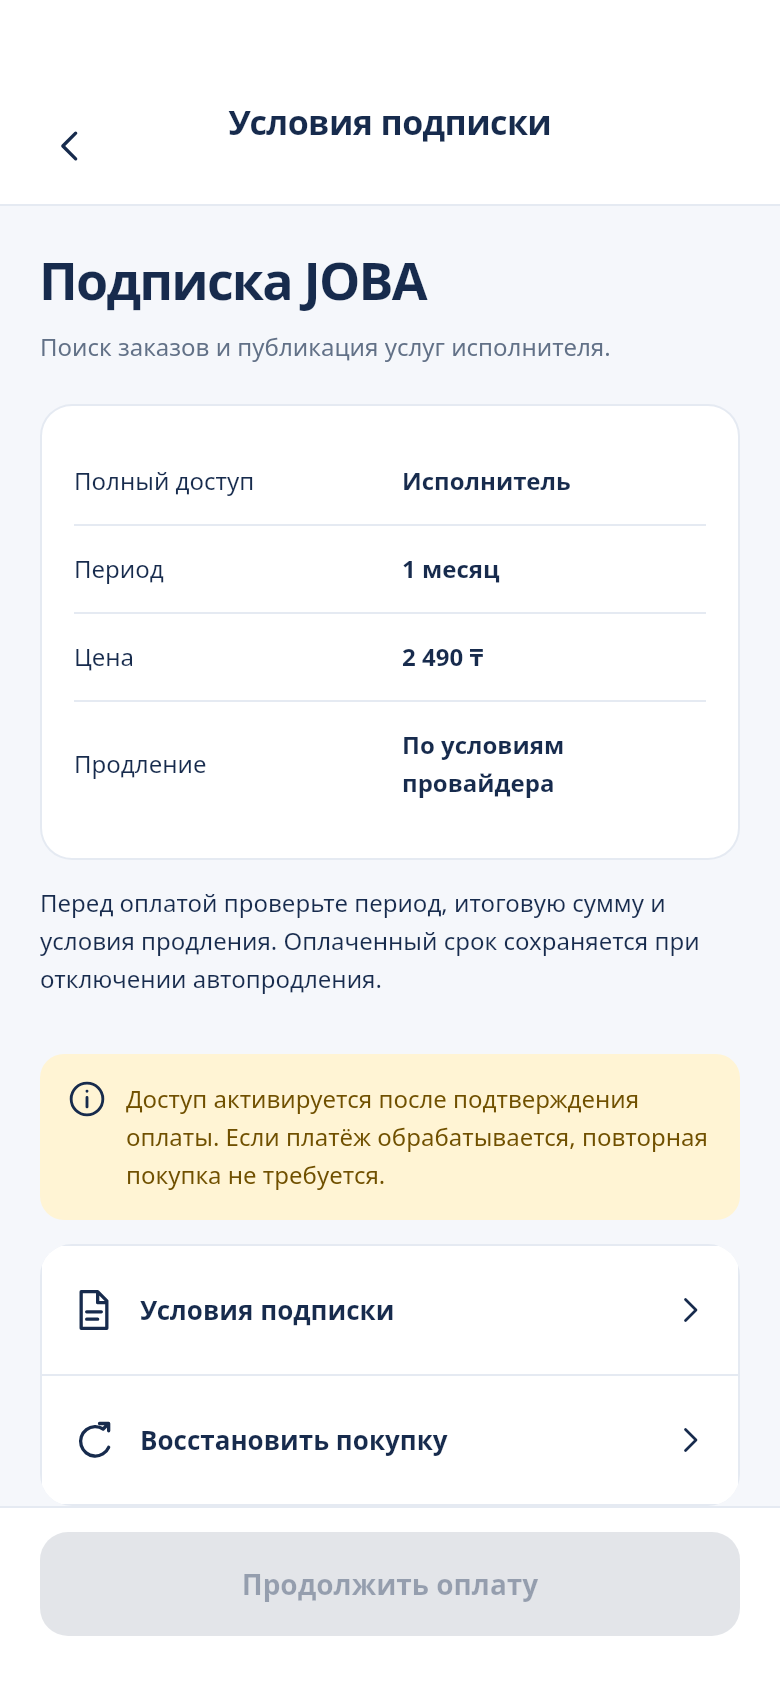
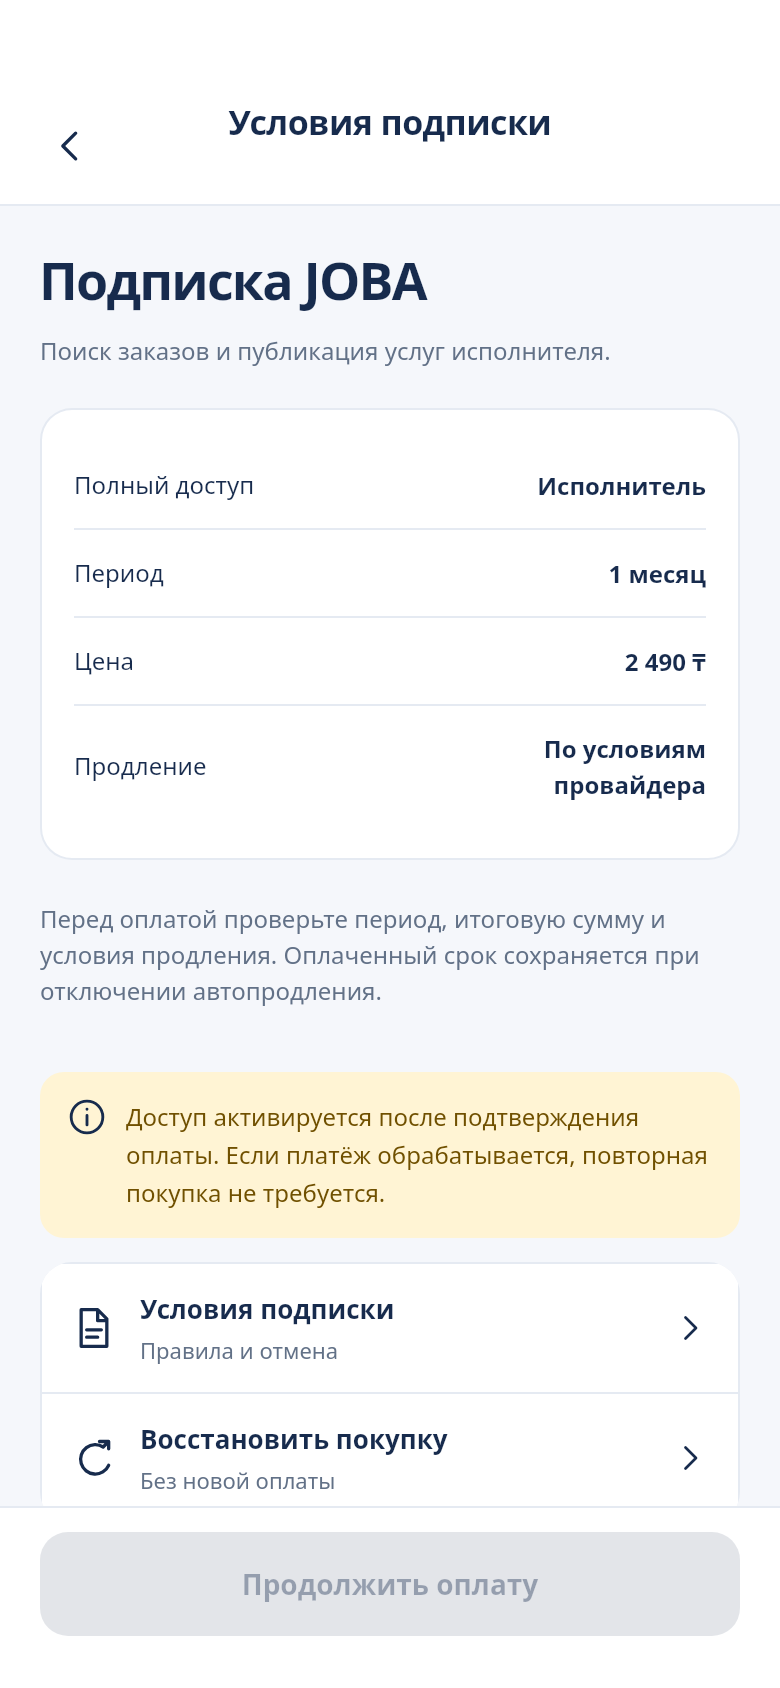
fix(checkout): align terms layout and guard delayed purchase results

diff --git a/apps/mobile/lib/screens/commerce_states.dart b/apps/mobile/lib/screens/commerce_states.dart
@@ -47,6 +47,27 @@ class _CommerceStateScreenState extends State<CommerceStateScreen> {
     }
   }
 
+  Future<void> purchase(Json offer) => run(() async {
+        final api = widget.api;
+        final generation = api.sessionGeneration;
+        final owner = api.session?['user']?['id'];
+        bool current() =>
+            mounted &&
+            identical(widget.api, api) &&
+            !api.disposed &&
+            api.authenticated &&
+            api.sessionGeneration == generation &&
+            api.session?['user']?['id'] == owner;
+        if (!current()) return;
+        final receipt = await widget.gateway.purchase(offer);
+        if (!current()) return;
+        final result = await api.request('/billing/verify-purchase',
+            method: 'POST', body: receipt);
+        if (!current()) return;
+        widget.onGo(result['pending'] == true ? 'payment-pending' : 'my-access',
+            result['check']?['id']);
+      });
+
   Widget panel(String icon, String title, String message, String label,
           VoidCallback action,
           {String? secondary, VoidCallback? onSecondary}) =>
@@ -226,10 +247,13 @@ class _CommerceStateScreenState extends State<CommerceStateScreen> {
                 child: UiText(label,
                     style: const TextStyle(fontSize: 12, color: navy))),
             const SizedBox(width: 12),
-            Flexible(
+            Expanded(
                 child: UiText(value,
+                    textAlign: TextAlign.right,
                     style: const TextStyle(
-                        fontSize: 12, fontWeight: FontWeight.w700))),
+                        fontSize: 12,
+                        height: 1.5,
+                        fontWeight: FontWeight.w700))),
           ]));
 
   String money(Json? r) => r?['amount_minor'] is int
@@ -388,8 +412,16 @@ class _CommerceStateScreenState extends State<CommerceStateScreen> {
           return Column(children: [
             Expanded(
                 child: ListView(padding: const EdgeInsets.all(20), children: [
-              const UiHeading('Подписка JOBA',
-                  'Поиск заказов и публикация услуг исполнителя.'),
+              const UiText('Подписка JOBA',
+                  style: TextStyle(
+                      fontSize: 26,
+                      height: 33 / 26,
+                      letterSpacing: -.9,
+                      fontWeight: FontWeight.w700)),
+              const SizedBox(height: 10),
+              const UiText('Поиск заказов и публикация услуг исполнителя.',
+                  style: TextStyle(fontSize: 12, height: 1.5, color: muted)),
+              const SizedBox(height: 20),
               if (offers.length > 1 || (offer == null && offers.isNotEmpty))
                 for (final r in offers)
                   ListTile(
@@ -422,11 +454,11 @@ class _CommerceStateScreenState extends State<CommerceStateScreen> {
                       checkoutFact('Продление', 'По условиям провайдера',
                           last: true),
                     ])),
-                const SizedBox(height: 12),
+                const SizedBox(height: 20),
                 const UiText(
                     'Перед оплатой проверьте период, итоговую сумму и условия продления. Оплаченный срок сохраняется при отключении автопродления.',
-                    style: TextStyle(fontSize: 12, color: navy)),
-                const SizedBox(height: 16),
+                    style: TextStyle(fontSize: 12, height: 1.5, color: muted)),
+                const SizedBox(height: 20),
               ],
               const Notice(
                   'Доступ активируется после подтверждения оплаты. Если платёж обрабатывается, повторная покупка не требуется.',
@@ -434,9 +466,11 @@ class _CommerceStateScreenState extends State<CommerceStateScreen> {
                   icon: 'info'),
               JobaMenu([
                 JobaMenuEntry('Условия подписки', 'file',
-                    () => widget.onGo('legal', null)),
+                    () => widget.onGo('legal', null),
+                    subtitle: 'Правила и отмена'),
                 JobaMenuEntry('Восстановить покупку', 'refresh',
-                    () => widget.onGo('restore', null)),
+                    () => widget.onGo('restore', null),
+                    subtitle: 'Без новой оплаты'),
               ]),
               const SizedBox(height: 12),
               CheckboxListTile(
@@ -461,20 +495,7 @@ class _CommerceStateScreenState extends State<CommerceStateScreen> {
                         child: FilledButton(
                             onPressed: busy || !accepted || offer == null
                                 ? null
-                                : () => run(() async {
-                                      final receipt =
-                                          await widget.gateway.purchase(offer);
-                                      final result = await widget.api.request(
-                                          '/billing/verify-purchase',
-                                          method: 'POST',
-                                          body: receipt);
-                                      if (mounted)
-                                        widget.onGo(
-                                            result['pending'] == true
-                                                ? 'payment-pending'
-                                                : 'my-access',
-                                            result['check']?['id']);
-                                    }),
+                                : () => purchase(offer),
                             child: const UiText('Продолжить оплату')))))
           ]);
         });

diff --git a/apps/mobile/test/remaining_states_test.dart b/apps/mobile/test/remaining_states_test.dart
@@ -1,3 +1,4 @@
+import 'dart:async';
 import 'dart:convert';
 import 'package:flutter/material.dart';
 import 'package:flutter_test/flutter_test.dart';
@@ -34,7 +35,60 @@ class Gateway extends CommerceGateway {
   Future<bool> playReward(Json session) async => true;
 }
 
+class DelayedGateway extends Gateway {
+  final result = Completer<Json>();
+  @override
+  Future<Json> purchase(Json offer) {
+    purchases++;
+    return result.future;
+  }
+}
+
 void main() {
+  testWidgets('late purchase cannot verify under a replacement account',
+      (t) async {
+    final posts = <String>[];
+    final a = api((r) async {
+      if (r.method == 'POST') posts.add(r.url.path);
+      return ok({
+        'items': [
+          {
+            'id': 'offer',
+            'amount_minor': 100,
+            'currency': 'KZT',
+            'product_type': 'subscription'
+          }
+        ]
+      });
+    });
+    addTearDown(a.dispose);
+    a.session!['user'] = {'id': 'first'};
+    final gateway = DelayedGateway();
+    String? route;
+    await t.pumpWidget(host(CommerceStateScreen(
+        api: a,
+        mode: 'checkout',
+        gateway: gateway,
+        onGo: (r, _) => route = r)));
+    await t.pumpAndSettle();
+    await t.scrollUntilVisible(find.byType(CheckboxListTile), 150);
+    await t.pumpAndSettle();
+    await t.tap(find.byType(CheckboxListTile));
+    await t.pump();
+    await t.tap(find.text('Продолжить оплату'));
+    await t.pump();
+    expect(gateway.purchases, 1);
+    a.session = {
+      'access_token': 'replacement',
+      'user': {'id': 'second'}
+    };
+    gateway.result
+        .complete({'provider': 'isolated', 'transaction_reference': 'proof'});
+    await t.pumpAndSettle();
+    expect(posts, isEmpty);
+    expect(route, isNull);
+  });
+
   testWidgets('checkout never replaces a retired selected offer', (t) async {
     final a = api((r) async => ok({
           'items': [

diff --git a/apps/mobile/test/customer_access_test.dart b/apps/mobile/test/customer_access_test.dart
@@ -4,6 +4,7 @@ import 'package:flutter_test/flutter_test.dart';
 import 'package:http/http.dart' as http;
 import 'package:http/testing.dart';
 import 'package:services_marketplace/core/api.dart';
+import 'package:services_marketplace/core/design_widgets.dart';
 import 'package:services_marketplace/main.dart';
 import 'package:services_marketplace/screens/marketplace.dart';
 
@@ -105,6 +106,24 @@ void main() {
     await tester.pumpAndSettle();
     expect(state.route, 'checkout');
     expect(state.objectId, 'isolated-tariff');
+    await tester.tap(find.byTooltip('Назад'));
+    await tester.pumpAndSettle();
+    expect(state.route, 'access');
+    for (final entry in {
+      'Условия подписки': 'legal',
+      'Восстановить покупку': 'restore'
+    }.entries) {
+      state.go('checkout', 'isolated-tariff');
+      await tester.pumpAndSettle();
+      final link = find.descendant(
+          of: find.byType(JobaMenu), matching: find.text(entry.key));
+      await tester.scrollUntilVisible(link, 150);
+      await tester.pumpAndSettle();
+      await tester.tap(link);
+      await tester.pumpAndSettle();
+      expect(state.route, entry.value);
+    }
+
     state.go('access');
     await tester.pumpAndSettle();
     await tester.scrollUntilVisible(find.text('Доступ за рекламу'), 150);

diff --git a/docs/checkout-layout-update.md b/docs/checkout-layout-update.md
@@ -1,0 +1,11 @@
+# S05.checkout: условия подписки и поздний ответ оплаты
+
+19 октября 2026: значения таблицы выровнены по правому краю, исправлены отступы заголовка и пояснения, добавлены подписи «Правила и отмена» и «Без новой оплаты» из макета. Согласие остаётся отдельным обязательным контролом ниже ссылок, доступным при прокрутке; нижняя кнопка закреплена.
+
+Тексты исходного демонстрационного макета заменены реальными состояниями: только исполнитель, цена API, условия продления провайдера и активация после подтверждения сервера. Период продления не выдумывается из периода доступа. Совпадение буквального текста с устаревшим демо-макетом не заявляется.
+
+Перед обращением к провайдеру фиксируются экземпляр API, поколение сессии и владелец. После каждого асинхронного шага checkout проверяет, что экран ещё открыт и сессия принадлежит тому же аккаунту. Поздний результат не передаётся серверу от имени заменившего аккаунта и не вызывает переход после закрытия экрана. Это не отменяет платёж, который уже мог начаться у внешнего провайдера; окончательные статусы и восстановление требуют интеграции.
+
+Проверки `remaining_states_test.dart` и `customer_access_test.dart`: смена аккаунта во время ожидания провайдера, запрет покупки без согласия, согласие для конкретного тарифа, исчезнувший тариф, pending-подтверждение, отключённый провайдер, возврат в access, ссылки legal/restore и бесплатный сценарий заказчика. 10 тестов прошли; анализатор: 0 замечаний.
+
+Переснято 115 мобильных состояний без ошибок захвата. Обновлённые S05.checkout и рекламное предложение используют изолированные API-данные, это материалы для сверки. Общая функция отображения строк также используется рекламным предложением, поэтому его снимок проверен отдельно. Полная визуальная приёмка, реальные платежи и проверки на сервере остаются открытыми.

diff --git a/docs/detailed-remaining-plan.md b/docs/detailed-remaining-plan.md
@@ -44,6 +44,8 @@
 
 ## 4. Вход, регистрация и начало работы
 
+Обновление S05.checkout: [оформление условий и защита позднего ответа оплаты](checkout-layout-update.md). Проверены четыре исходных контрола; визуальная приёмка и интеграция оплаты открыты.
+
 Обновление S05: [исправлен маршрут доступа и оформление карточек](executor-access-update.md). Проверены пять переходов и бесплатный сценарий заказчика; визуальная приёмка остаётся открытой.
 
 Обновление S05.checkout: [явный выбор тарифа и отдельное согласие на его условия](checkout-selection-update.md). Исправлены молчаливая замена исчезнувшего тарифа и перенос согласия на другой тариф. Полная визуальная сверка S05 остаётся открытой.
